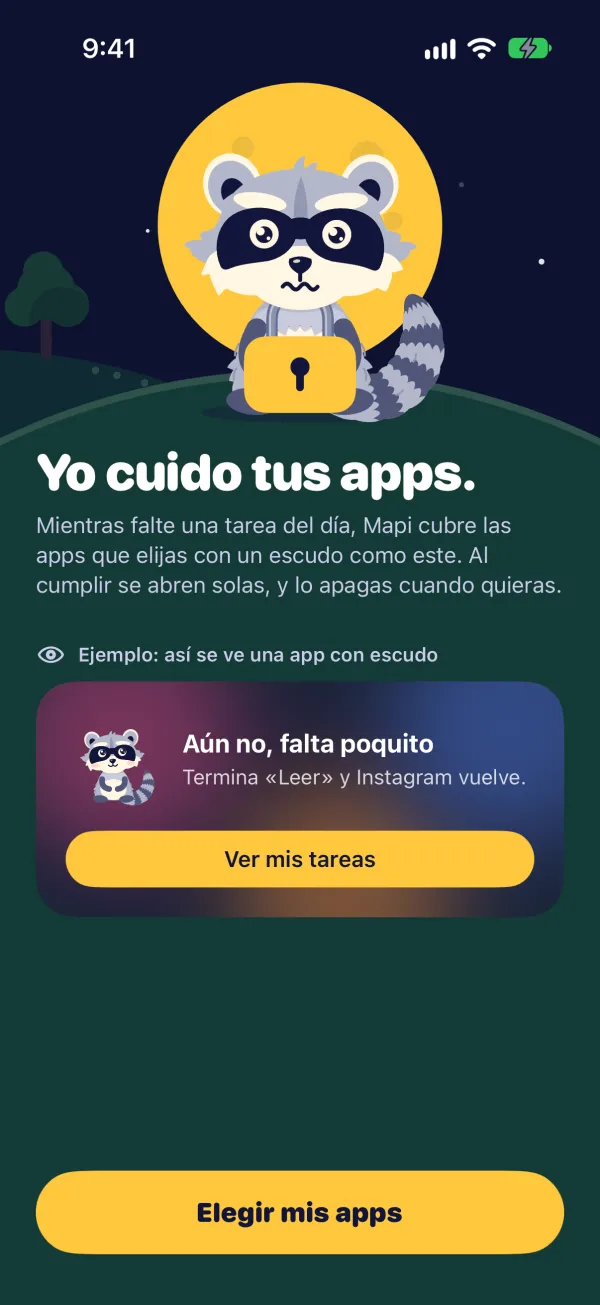
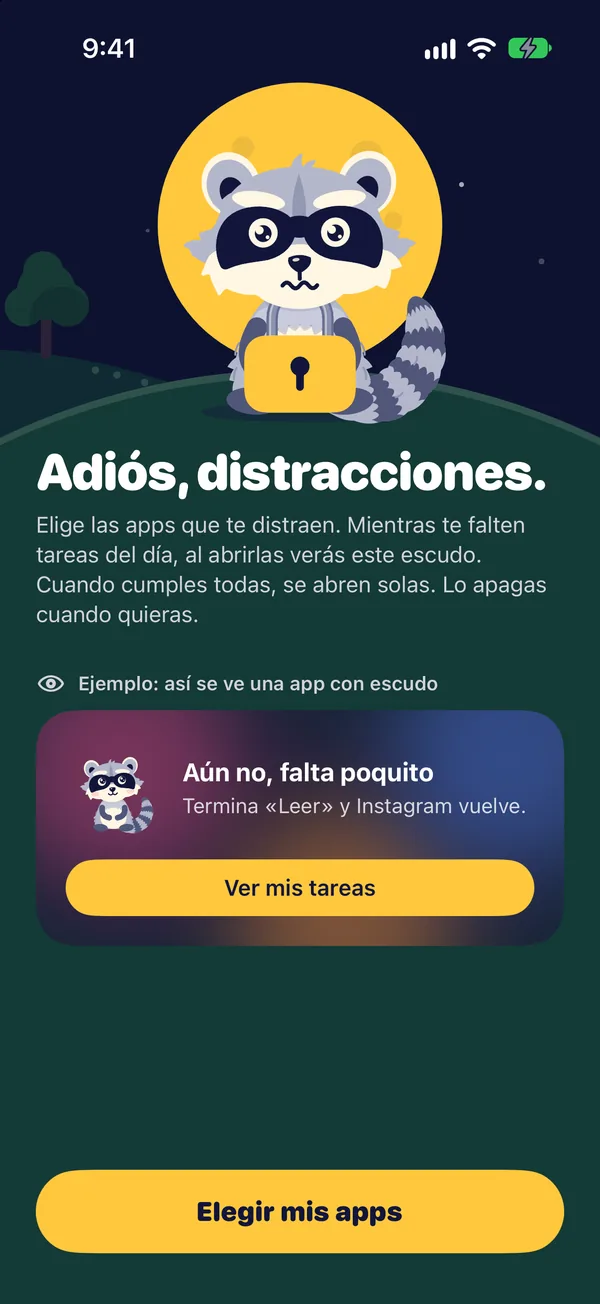
Capturas del 83, armario con más de 60 piezas y ayuda para comprar Plus

Changed region(s): [[0.06, 0.092, 0.96, 0.7362]]

diff --git a/soporte.html b/soporte.html
@@ -56,7 +56,13 @@
 
     <details>
       <summary>¿Qué incluye Mapi Plus?</summary>
-      <p>Tu progreso por mes y año, el resumen de la semana completo, widgets, recordatorios a tu medida, horarios de enfoque, Mapi revisa tus fotos, consejos para tus tareas, tareas sin límite, archivar tareas para retomarlas después, hasta 4 paraguas y las 57 piezas del armario de Mapi. El escudo, las fotos, la racha y el enfoque son gratis.</p>
+      <p>Tu progreso por mes y año, el resumen de la semana completo, widgets, recordatorios a tu medida, horarios de enfoque, Mapi revisa tus fotos, consejos para tus tareas, tareas sin límite, archivar tareas para retomarlas después, hasta 4 paraguas y más de 60 piezas del armario de Mapi. El escudo, las fotos, la racha y el enfoque son gratis.</p>
+    </details>
+
+    <details>
+      <summary>No puedo comprar Mapi Plus. ¿Qué hago?</summary>
+      <p>La ventana donde pones tu contraseña es de Apple y pide la de la cuenta que aparece en ella: la de Ajustes, tu nombre y luego «Contenido y compras». Si la rechaza aunque esté bien, cierra sesión en «Contenido y compras», vuelve a entrar y reinicia tu iPhone.</p>
+      <p>Si Mapi te muestra «No se pudo completar la compra», escríbenos con una captura de ese aviso: trae un código que nos dice qué respondió Apple.</p>
     </details>
 
     <details>

diff --git a/index.html b/index.html
@@ -112,7 +112,7 @@
           </ul>
         </div>
         <div class="visual revela">
-          <div class="telefono"><img src="img/app-escudo.webp" alt="Pantalla del escudo: Yo cuido tus apps" width="600" height="1304" loading="lazy"></div>
+          <div class="telefono"><img src="img/app-escudo.webp" alt="Pantalla del escudo: Adiós, distracciones" width="600" height="1304" loading="lazy"></div>
           <img class="mapi-lado mapi-izq" src="img/mapi-lentes.webp" alt="" width="560" height="560" loading="lazy">
         </div>
       </div>
@@ -238,7 +238,7 @@
               <tr><th scope="row">Tareas</th><td>Hasta 3</td><td class="col-plus">Sin límite</td></tr>
               <tr><th scope="row">Archivar tareas</th><td><span class="no" aria-label="No">—</span></td><td class="col-plus"><span class="si" aria-label="Sí">✓</span></td></tr>
               <tr><th scope="row">Paraguas para tu racha</th><td>Hasta 2</td><td class="col-plus">Hasta 4</td></tr>
-              <tr><th scope="row">Armario de Mapi</th><td>4 piezas</td><td class="col-plus">57 piezas</td></tr>
+              <tr><th scope="row">Armario de Mapi</th><td>4 piezas</td><td class="col-plus">+60 piezas</td></tr>
             </tbody>
           </table>
         </div>
